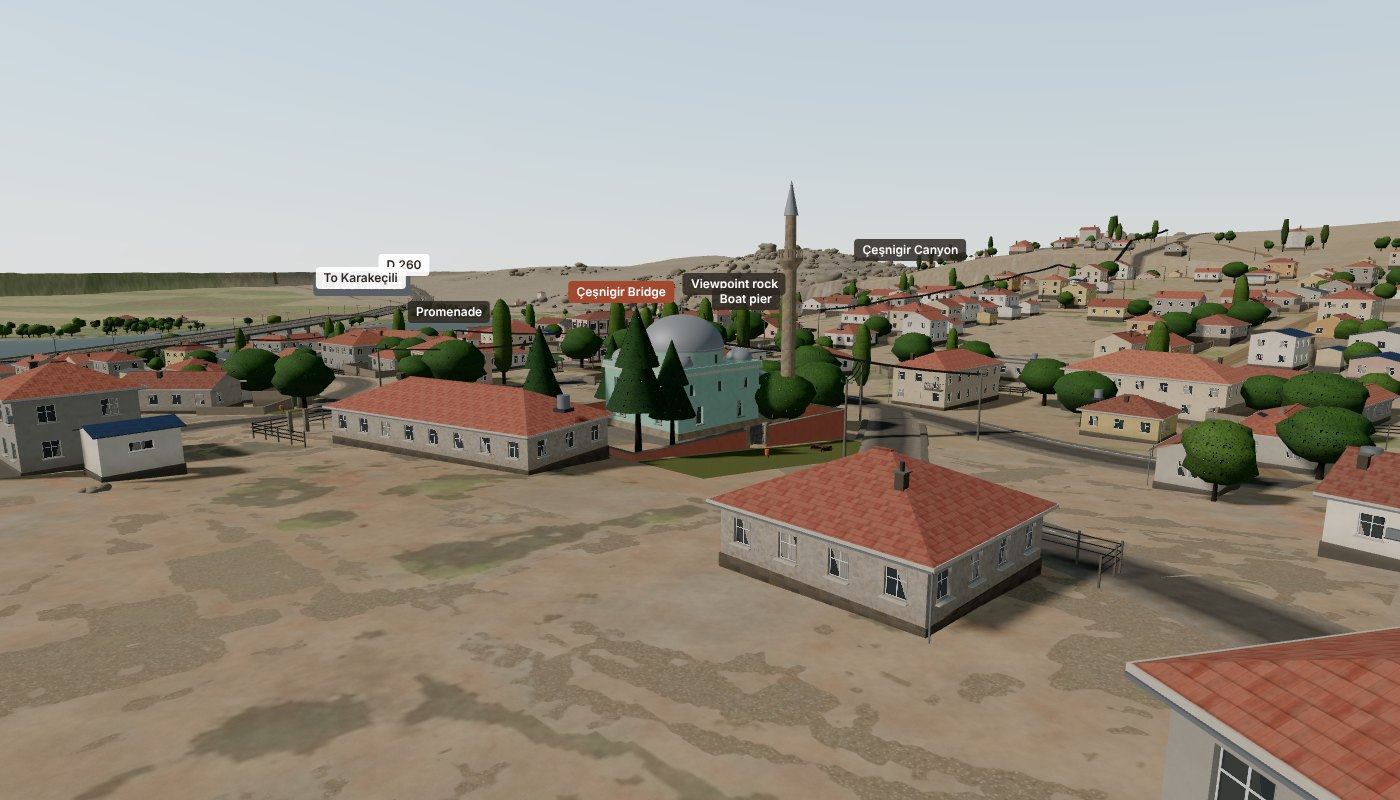
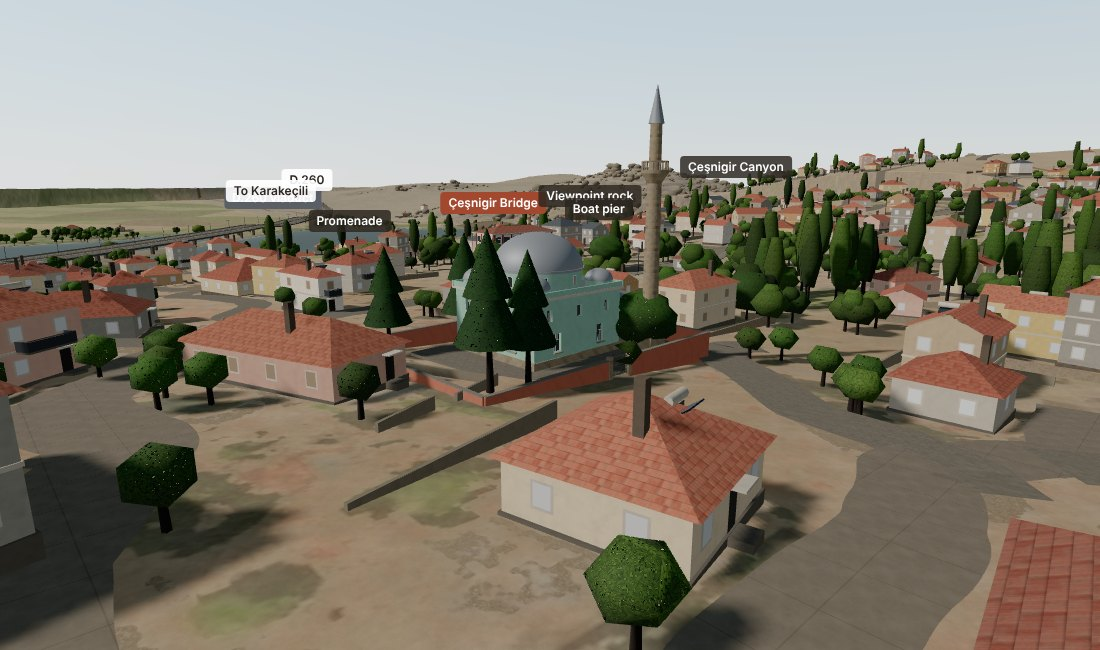
v0.8: keep only the square (municipality, statue) and the mosque; full re-layout behind #village
Roads, houses, trees and the bridge are back to v0.7. The connected street network, generated
houses, kerbs, poles and bridge voussoirs stay in the code as opt-in URL flags (#village,
#bridge-detail). Docs updated.

Claude-Session: https://claude.ai/code/session_01Rnj2kTL4AahNJydEajqBn9

diff --git a/src/village.js b/src/village.js
@@ -4,7 +4,7 @@
 // Layout comes from village_layout.js; materials from village_materials.js; props from props.js.
 import * as THREE from 'three';
 import { GeoBatch, box, boxY, cyl, facadeWithHoles, roofGeometry, gableEnds, ribbon, patch } from './geo.js';
-import { inRegion, rectCorners, distToPolyline } from './village_layout.js';
+import { inRegion, inCentreZone, rectCorners, distToPolyline } from './village_layout.js';
 import { buildProps } from './props.js';
 
 const WALLS = ['Duvar_Beyaz', 'Duvar_Beyaz', 'Duvar_Beyaz', 'Duvar_Krem', 'Duvar_Krem', 'Duvar_Okr', 'Duvar_Pembe', 'Duvar_Sari', 'Duvar_Gri'];
@@ -14,15 +14,16 @@ const FLOOR = 2.9, PLINTH = 0.45;
 
 // ---------------------------------------------------------------------------------------------------
 /** Remove the old draft inside the rebuilt region: houses, village roads, the mosque, and the trees. */
-export function pruneOldVillage(model) {
+export function pruneOldVillage(model, full = false) {
+  const inZone = full ? inRegion : inCentreZone;
   const v = new THREE.Vector3(), removed = { houses: 0, roads: 0, trees: 0 };
   const dropChildren = (groupName, test) => {
     const g = model.getObjectByName(groupName); if (!g) return 0; let n = 0;
     for (const c of g.children.slice()) { c.getWorldPosition(v); if (test(c, v)) { c.removeFromParent(); n++; } }
     return n;
   };
-  removed.houses = dropChildren('Konutlar', (c, p) => inRegion(p.x, p.z));
-  removed.roads = dropChildren('Yollar', (c, p) => inRegion(p.x, p.z) && !/^D260/.test(c.name));
+  removed.houses = dropChildren('Konutlar', (c, p) => inZone(p.x, p.z));
+  if (full) removed.roads = dropChildren('Yollar', (c, p) => inRegion(p.x, p.z) && !/^D260/.test(c.name));
   dropChildren('Kiyi_ve_Kamu', (c) => /^Cami/.test(c.name));
   // trees are two merged meshes: drop the triangles whose centroid lies in the region
   for (const name of ['Agaclar_Yaprak', 'Agaclar_Govde']) {
@@ -33,7 +34,7 @@ export function pruneOldVillage(model) {
     for (let t = 0; t < tri; t++) {
       const i0 = idx ? idx[t * 3] : t * 3, i1 = idx ? idx[t * 3 + 1] : t * 3 + 1, i2 = idx ? idx[t * 3 + 2] : t * 3 + 2;
       a.fromBufferAttribute(pos, i0).applyMatrix4(m.matrixWorld); b.fromBufferAttribute(pos, i1).applyMatrix4(m.matrixWorld); c.fromBufferAttribute(pos, i2).applyMatrix4(m.matrixWorld);
-      if (!inRegion((a.x + b.x + c.x) / 3, (a.z + b.z + c.z) / 3)) keep.push(i0, i1, i2); else removed.trees++;
+      if (!inZone((a.x + b.x + c.x) / 3, (a.z + b.z + c.z) / 3)) keep.push(i0, i1, i2); else removed.trees++;
     }
     g.setIndex(keep); g.computeBoundingSphere(); g.computeBoundingBox();
   }
@@ -50,7 +51,7 @@ export function buildVillage(ctx, layout, M) {
   const bat = new GeoBatch();
   const wires = [];                       // line segments for fence wires and overhead cables
   const treeSpots = [], props = [];       // handed to props.js
-  const roads = layout.roads;
+  const roads = layout.roads, centreOnly = !!layout.centreOnly;
   const yAt = (x, z) => terrH(x, z);
   const roadDist = (x, z) => { let best = Infinity, bw = 0; for (const r of roads) { const h = distToPolyline(x, z, r.line); if (h.d < best) { best = h.d; bw = r.w; } } return { d: best, w: bw }; };
   const onRoad = (x, z, margin = 0) => { const h = roadDist(x, z); return h.d < h.w / 2 + margin; };
@@ -59,6 +60,7 @@ export function buildVillage(ctx, layout, M) {
   // ================================================================= roads
   const lift = (r) => LIFT[r.kind] + roads.indexOf(r) * 0.003;
   for (const r of roads) {
+    if (centreOnly) break;
     const hw = r.w / 2, L = lift(r);
     const prof = [{ u: -hw - 1.0, dy: L * 0.25 }, { u: -hw, dy: L }, { u: -hw * 0.5, dy: L }, { u: 0, dy: L + 0.04 }, { u: hw * 0.5, dy: L }, { u: hw, dy: L }, { u: hw + 1.0, dy: L * 0.25 }];
     bat.add('road_' + r.kind, ribbon(r.line, prof, yAt, 1 / hw));
@@ -85,7 +87,7 @@ export function buildVillage(ctx, layout, M) {
   }
   // utility poles along the main streets, with three sagging cables between them
   for (const id of ['A_core', 'B_core', 'C_core', 'E_core', 'A_N', 'A_S', 'C_W', 'E_S']) {
-    const r = roads.find(q => q.id === id); if (!r) continue;
+    const r = roads.find(q => q.id === id); if (!r || centreOnly) continue;
     const side = id === 'B_core' || id === 'E_core' ? 1 : -1, off = r.w / 2 + (r.kerb ? 2.2 : 1.4);
     let s = 12 + rnd() * 10, prev = null, acc = 0, i = 0;
     const total = r.line.reduce((a, p, k) => k ? a + Math.hypot(p[0] - r.line[k - 1][0], p[1] - r.line[k - 1][1]) : 0, 0);
@@ -101,8 +103,10 @@ export function buildVillage(ctx, layout, M) {
   // ================================================================= the square and the lawns
   const S = layout.sites;
   bat.add('square', patch(S.square.x, S.square.z, S.square.w, S.square.d, 0, yAt, LIFT.square, 2.5));
-  const green = S.green1; bat.add('lawn', patch(green.x, green.z, 7, 6, 0, yAt, 0.07, 1.5));
-  props.push({ kind: 'bench', x: green.x - 1.5, z: green.z + 1.0, yaw: 0.2 }, { kind: 'bin', x: green.x + 2.2, z: green.z + 1.5 }, { kind: 'tree', species: 'mulberry', x: green.x + 1.0, z: green.z - 1.5, size: 1.1 });
+  if (!centreOnly) {
+    const green = S.green1; bat.add('lawn', patch(green.x, green.z, 7, 6, 0, yAt, 0.07, 1.5));
+    props.push({ kind: 'bench', x: green.x - 1.5, z: green.z + 1.0, yaw: 0.2 }, { kind: 'bin', x: green.x + 2.2, z: green.z + 1.5 }, { kind: 'tree', species: 'mulberry', x: green.x + 1.0, z: green.z - 1.5, size: 1.1 });
+  }
   props.push({ kind: 'bench', x: S.square.x + 7, z: S.square.z + 13, yaw: 0 }, { kind: 'bench', x: S.square.x + 7, z: S.square.z - 12, yaw: 0 }, { kind: 'bin', x: S.square.x + 9, z: S.square.z + 15 });
   for (const [dx, dz] of [[-2, 14], [8, -16], [9, 10]]) props.push({ kind: 'tree', species: 'mulberry', x: S.square.x + dx, z: S.square.z + dz, size: 1.3 });
 
@@ -442,6 +446,7 @@ export function buildVillage(ctx, layout, M) {
     // trees inside the yard (pines behind the mosque, as in docs/reference/06) and the lawn / picnic table outside the east wall
     for (const [tx, tz] of [[-W2 + 3, cz0 + D2 - 4], [W2 - 3, cz0 + D2 - 3], [-W2 + 3, cz0 + 2], [W2 - 3, cz0 + 9]]) treeSpots.push({ x: b.x + tx, z: b.z + tz, species: 'pine', size: 1.0 + rnd() * 0.3, force: true });
     for (const [tx, tz] of [[-W2 + 5, cz0 - D2 + 11], [W2 - 5, cz0 - D2 + 6]]) treeSpots.push({ x: b.x + tx, z: b.z + tz, species: 'mulberry', size: 1.1, force: true });
+    if (centreOnly) return;   // no new street outside the wall in centre-only mode: the v0.6 roads stay
     const rdE = roadDist(b.x + W2, b.z + cz0), lawnW = Math.max(2, Math.min(9, rdE.d - rdE.w / 2 - 2.2)), lawnX = b.x + W2 + 0.4 + lawnW / 2, lawnZ = b.z + cz0;
     bat.add('lawn', patch(lawnX, lawnZ, lawnW, cd, 0, yAt, 0.07, 1.5));
     props.push({ kind: 'picnic', x: lawnX - 0.3, z: lawnZ - 6, yaw: 0 }, { kind: 'bin', x: lawnX + 0.8, z: lawnZ + 4 });
@@ -451,7 +456,7 @@ export function buildVillage(ctx, layout, M) {
   // ================================================================= props, wires, trees
   // street poplars along the main road and the mosque street
   for (const id of ['B_core', 'C_core', 'A_core']) {
-    const r = roads.find(q => q.id === id); if (!r) continue;
+    const r = roads.find(q => q.id === id); if (!r || centreOnly) continue;
     for (const side of [-1, 1]) {
       const total = r.line.length;
       for (let i = 4; i < total - 4; i += 5 + Math.floor(rnd() * 5)) {
@@ -466,8 +471,10 @@ export function buildVillage(ctx, layout, M) {
   const okSpot = (t) => t.force || (!onRoad(t.x, t.z, 1.2) && !inAnyBuilding(t.x, t.z, 1.0) && terrH(t.x, t.z) > 2);
   const trees = treeSpots.filter(okSpot);
   // stone piles and a few fences out in the plots
-  for (let i = 0; i < 14; i++) { const b = blds[Math.floor(rnd() * blds.length)]; if (!b.barn) continue; props.push({ kind: 'stones', x: b.x + (rnd() - 0.5) * 12, z: b.z + (rnd() - 0.5) * 12 }); }
-  props.push({ kind: 'bench', x: S.market.x + 7.5, z: S.market.z + 2, yaw: Math.PI / 2 }, { kind: 'bin', x: S.market.x + 7.5, z: S.market.z - 1.5 });
+  if (!centreOnly) {
+    for (let i = 0; i < 14; i++) { const b = blds[Math.floor(rnd() * blds.length)]; if (!b.barn) continue; props.push({ kind: 'stones', x: b.x + (rnd() - 0.5) * 12, z: b.z + (rnd() - 0.5) * 12 }); }
+    props.push({ kind: 'bench', x: S.market.x + 7.5, z: S.market.z + 2, yaw: Math.PI / 2 }, { kind: 'bin', x: S.market.x + 7.5, z: S.market.z - 1.5 });
+  }
 
   const propsOut = buildProps(ctx, M, { props: props.filter(p => p.kind === 'tree' || p.force || !onRoad(p.x, p.z, 0.4)), trees, wires }, bat);
   bat.build(M, group);

diff --git a/index.html b/index.html
@@ -160,7 +160,7 @@ canvas { display: block; touch-action: none; }
     <label class="chip" style="width:100%;justify-content:space-between"><span>Time <b id="sunVal">15:00</b></span>
       <input type="range" id="sun" min="6" max="20" step="0.25" value="15" style="flex:1;margin-left:10px" aria-label="Time of day"></label>
   </div>
-  <p class="note"><strong>v0.8 — village rebuilt.</strong> The centre is re-drawn from the satellite image and street photographs: a connected street network (Köprüköy Köyü Yolu, the Güvendioğlu Market junction, the mosque street) with blue-white kerbs and pavements, the old municipality building and the Atatürk statue on its earth square, the turquoise mosque with its single minaret and red courtyard wall, houses with recessed windows, sills, eaves, gutters, balconies and roof clutter, poplars and mulberry trees, utility poles and fences. Terrain (SRTM 30 m), the reservoir and the Çeşnigir Bridge are unchanged; the bridge now has carved voussoirs, cutwater caps and parapet stones. Storey counts and façade details are still estimates.</p>
+  <p class="note"><strong>v0.8 — square and mosque.</strong> Built from street photographs: the old municipality building (three storeys, whitewash with red-brown pilasters) with the Atatürk statue on its earth square and the çardak, and the turquoise mosque with its lead domes, single minaret and red courtyard wall. Everything else (terrain, roads, houses, bridge, reservoir) is the v0.7 model. Storey counts and façade details are still estimates.</p>
 </aside>
 
 <div class="hud" id="hud"><div class="speedo"><b id="spd">0</b><span id="gearTxt">km/h · N</span></div></div>
@@ -186,12 +186,13 @@ import { Sky } from 'three/addons/objects/Sky.js';
 import { mergeGeometries } from 'three/addons/utils/BufferGeometryUtils.js';
 import { setupRealism } from './src/realism.js';
 import { tagBuildings } from './src/buildings.js';
-import { buildVillageLayout, roadSamples, buildingBoxes, inRegion } from './src/village_layout.js';
+import { buildVillageLayout, buildCentreLayout, roadSamples, buildingBoxes, inRegion, inCentreZone } from './src/village_layout.js';
 import { pruneOldVillage, LIFT } from './src/village.js';
 
 const POIS = [{"id": "kopru", "label": "Çeşnigir Bridge", "kind": "tarihi", "pos": [-377, 16, -277]}, {"id": "viyaduk", "label": "D.260 viaduct", "kind": "yol", "pos": [-539, 22, -105]}, {"id": "d260a", "label": "D.260", "kind": "yon", "pos": [-951, 35, -319]}, {"id": "d260b", "label": "D.260", "kind": "yon", "pos": [154, 36, 568]}, {"id": "karakecili", "label": "To Karakeçili", "kind": "yon", "pos": [-825, 21, -209]}, {"id": "gezi", "label": "Promenade", "kind": "yer", "pos": [-267, 14, -57]}, {"id": "seyir", "label": "Viewpoint rock", "kind": "yer", "pos": [-292, 24, -338]}, {"id": "iskele", "label": "Boat pier", "kind": "yer", "pos": [-305, 9, -367]}, {"id": "kanyon", "label": "Çeşnigir Canyon", "kind": "yer", "pos": [-277, 55, -602]}, {"id": "nehir", "label": "Kızılırmak · Kapulukaya Reservoir", "kind": "su", "pos": [-318, 8, 331]}];
 const isTouch = matchMedia('(pointer: coarse)').matches;
 const LITE = location.hash === '#lite';
+const FULL_VILLAGE = /\bvillage\b/.test(location.hash);
 // render quality tier: 0 = lite, 1 = mobile, 2 = desktop
 const QUALITY = LITE ? 0 : isTouch ? 1 : 2;
 
@@ -327,15 +328,19 @@ function makeWaterNormals() {
 async function loadAll() {
   const [{ default: b64 }, { default: data }] = await Promise.all([import('./model4.js'), import('./data4.js')]);
   D = data; X0 = D.grid.x0; Z0 = D.grid.z0; TSZ = D.grid.size; terrainSeg = D.grid.seg; terrainCs = TSZ / terrainSeg; Hh = Float32Array.from(D.grid.h);
-  // v0.8: the village centre is re-laid out (see src/village_layout.js); swap its roads / footprints in the collision data
-  const oldR = D.roads, keepR = [];
-  for (let k = 0; k < oldR.length; k += 4) if (!inRegion(oldR[k], oldR[k + 1]) || oldR[k + 3] > 5) keepR.push(oldR[k], oldR[k + 1], oldR[k + 2], oldR[k + 3]);
-  VILLAGE = buildVillageLayout(terrH, keepR);
-  D.roads = keepR.concat(roadSamples(VILLAGE.roads, terrH, kind => LIFT[kind]));
+  // v0.8: the square (old municipality, statue) and the mosque are rebuilt; with #village the whole centre is
+  // re-laid out from the satellite image (see src/village_layout.js). Collision data follows.
+  if (FULL_VILLAGE) {
+    const oldR = D.roads, keepR = [];
+    for (let k = 0; k < oldR.length; k += 4) if (!inRegion(oldR[k], oldR[k + 1]) || oldR[k + 3] > 5) keepR.push(oldR[k], oldR[k + 1], oldR[k + 2], oldR[k + 3]);
+    VILLAGE = buildVillageLayout(terrH, keepR);
+    D.roads = keepR.concat(roadSamples(VILLAGE.roads, terrH, kind => LIFT[kind]));
+    D.spawn = { car: [20, 56], walk: [46, 47] };
+  } else VILLAGE = buildCentreLayout(terrH);
+  const inZone = FULL_VILLAGE ? inRegion : inCentreZone;
   const oldB = D.buildings, keepB = [];
-  for (let k = 0; k < oldB.length; k += 5) if (!inRegion(oldB[k], oldB[k + 1])) keepB.push(...oldB.slice(k, k + 5));
+  for (let k = 0; k < oldB.length; k += 5) if (!inZone(oldB[k], oldB[k + 1])) keepB.push(...oldB.slice(k, k + 5));
   D.buildings = keepB.concat(buildingBoxes(VILLAGE.buildings));
-  D.spawn = { car: [20, 56], walk: [46, 47] };
   buildHashes();
   const bin = atob(b64), buf = new Uint8Array(bin.length); for (let i = 0; i < bin.length; i++) buf[i] = bin.charCodeAt(i);
   const ld = new GLTFLoader(); ld.setMeshoptDecoder(MeshoptDecoder);
@@ -355,7 +360,7 @@ loadAll().then(gltf => {
     }
   });
   // v0.8: drop the old draft of the village centre (houses, streets, mosque, trees) before merging; it is rebuilt in setupRealism
-  pruneOldVillage(m);
+  pruneOldVillage(m, FULL_VILLAGE);
   // tag every building with an id / ground line / roof line / orientation before merging (used by the façade shaders)
   let bid = 1; for (const n of ['Konutlar', 'Kiyi_ve_Kamu', 'Cesnigir_Koprusu', 'Yollar']) { const g = m.getObjectByName(n); if (g) bid = tagBuildings(g, bid); }
   const merged = {};
@@ -656,7 +661,7 @@ const V = {
   gezi:   { p: [-185, 62, -285], t: [-300, 4, -320] },
   kanyon: { p: [-262, 42, -350], t: [-300, 5, -640] },
   detay:  { p: [150, 62, 15], t: [38, 27, 48] },
-  cami:   { p: [185, 48, 160], t: [118, 32, 96] },
+  cami:   { p: [158, 48, 152], t: [107, 32, 103] },
   tepe:   { p: [-60, 1450, 1], t: [-60, 0, 0] },
 };
 let anim = null;

diff --git a/src/village_layout.js b/src/village_layout.js
@@ -261,6 +261,28 @@ export function buildVillageLayout(terrH, existingRoads = []) {
   return { roads, buildings, sites: SITES, rnd };
 }
 
+// ---------------------------------------------------------------- centre-only mode (default)
+// Only the square (old municipality, statue, çardak) and the mosque are rebuilt; the v0.6 roads, houses
+// and trees stay. Old houses / trees inside these zones are removed.
+export const CENTRE_MOSQUE = { x: 107.2, z: 102.6 };   // inside the old courtyard footprint (89.7..128.7, 83.2..125.1)
+export const CENTRE_ZONES = [
+  { x0: 20, x1: 56, z0: 28, z1: 74 },                   // municipality, square, çardak
+  { x0: 93, x1: 121, z0: 88, z1: 124 },                 // mosque courtyard
+];
+export const inCentreZone = (x, z) => CENTRE_ZONES.some(r => x > r.x0 && x < r.x1 && z > r.z0 && z < r.z1);
+export function buildCentreLayout(terrH) {
+  const muniB = { ...TRACED.find(b => b.kind === 'municipality') };
+  const buildings = [muniB,
+    { x: CENTRE_MOSQUE.x, z: CENTRE_MOSQUE.z, yaw: 0, w: 13, d: 19, kind: 'mosque' },
+    { x: CENTRE_MOSQUE.x + 8.7, z: CENTRE_MOSQUE.z - 6.7, yaw: 0, w: 2.6, d: 2.6, kind: 'minaret' }];
+  for (const b of buildings) {
+    const hs = rectCorners(b).map(([x, z]) => terrH(x, z)); hs.push(terrH(b.x, b.z));
+    b.yTop = Math.max(...hs) + 0.05; b.yLow = Math.min(...hs) - 0.4;
+  }
+  const sites = { ...SITES, municipality: muniB, mosque: { ...CENTRE_MOSQUE, yaw: 0 } };
+  return { roads: [], buildings, sites, rnd: mulberry32(20261108), centreOnly: true };
+}
+
 /** Road samples in the data4 format ([x, z, y, halfWidth, ...]) for collision, the car and the minimap. */
 export function roadSamples(roads, terrH, lift) {
   const out = [];

diff --git a/src/realism.js b/src/realism.js
@@ -94,7 +94,7 @@ export async function setupRealism(ctx) {
     log('village');
   }
   // ---- bridge detail: voussoirs, cutwater caps, parapet stones ------------------------------
-  if (!off.has('no-bridge')) { const br = detailBridge(model, lib, pick); if (br) { ctx.scene.add(br); ctx.layers.bina.push(br); } log('bridge'); }
+  if (off.has('bridge-detail')) { const br = detailBridge(model, lib, pick); if (br) { ctx.scene.add(br); ctx.layers.bina.push(br); } log('bridge'); }   // opt-in: #bridge-detail
 
   return { lib, swapped, update(now) {
     if (waterMat && waterMat.userData.shader) waterMat.userData.shader.uniforms.uTime.value = now * 0.001;

diff --git a/docs/REALISM.md b/docs/REALISM.md
@@ -1,64 +1,49 @@
 # Köprüköy 3D — realism notes
 
-Two passes so far: **v0.7 "materials"** (surfaces only, nothing moved) and **v0.8 "village rebuilt"**
-(the village centre re-drawn from the satellite image and the Street View photographs in
-`docs/reference/`). Everything is applied at load time in the browser; `model4.js` / `data4.js` /
+Two passes so far: **v0.7 "materials"** (surfaces only, nothing moved) and **v0.8 "square and mosque"**
+(the old municipality square and the mosque rebuilt from the Street View photographs in `docs/reference/`). Everything is applied at load time in the browser; `model4.js` / `data4.js` /
 `model/koprukoy.glb` are still the v0.6 files. Terrain (SRTM 30 m), the reservoir at 724 m, the
 Çeşnigir Bridge body, D.260 and the roads outside the village are unchanged.
 
-## v0.8 — village rebuilt (Nov 2026)
+## v0.8 — square and mosque (Nov 2026)
 
-The measure of realism for this pass is the set of photographs in `docs/reference/` (01 satellite view of
-the centre, 02/05 the old municipality and the Atatürk statue, 03/04 typical houses, kerbs and a green,
-06 the mosque). Köprüköy itself: a former *belde* (town council until 2013) east of the Kapulukaya
-reservoir, ~630 inhabitants, one- and two-storey rendered houses with hipped clay-tile roofs.
+Scope, as decided by the owner: only the **old municipality square** and the **mosque** are rebuilt from the
+photographs in `docs/reference/`. Roads, houses, trees and the bridge stay as in v0.7. The full
+re-layout of the centre that was also built (connected street network traced from the satellite image,
+~260 houses, kerbs, poles, bridge voussoirs) is kept in the code behind opt-in URL flags —
+`#village` (whole centre) and `#bridge-detail` — but is not shown by default.
 
-| Area | Before (v0.7) | Now |
-|---|---|---|
-| Road network | 62 village streets that did not connect to each other (random spaghetti) | `src/village_layout.js`: the centre is traced from the satellite image — "Köprüköy Köyü Yolu" as the east–west axis through the Güvendioğlu Market junction, the north–south road, the mosque street, the south-west concrete lane. Outside the photographed block the streets are continued as a connected rural network that joins the surviving v0.6 roads: the D.260 access in the south-west, the two roads leaving north, the three leaving south and the shore road. 26 streets, every one of them connected. |
-| Houses | 514 boxes scattered without relation to the roads | 31 central buildings detected automatically from their tile roofs in the satellite image (`tools/trace_roofs.py`: position, size and orientation), 3 flat roofs added by hand; ~230 further houses and barns generated along the streets in plots, facing the road, denser near the centre. All old houses inside the village were deleted. |
-| Building geometry | plain boxes, detail only in the shader | `src/village.js`: walls built as façades with real window and door openings (recessed 16 cm with reveals), sills, plinths that follow the ground, hipped / gabled / sheet-metal / flat roofs with eaves, fascia boards, soffits, ridge, gutters and a downpipe, chimneys, balconies with railings, external stairs on some two-storey houses, AC units, roof water tanks, satellite dishes, solar water heaters, rebar stubs on flat roofs. Garden walls (rubble or block, with gate posts and a painted gate) or wire fences on the street side. |
-| Old municipality | not modelled | "T.C. Köprü Belediyesi" opposite the market: 3 storeys, dirty whitewash with red-brown pilasters between wide window bays, horizontal bands, entrance canopy and steps, sign board, low-pitch tile roof with wide eaves, flag pole. In front of it a stabilised-earth square and the Atatürk statue (bronze figure on a granite pedestal), benches, mulberry trees and the green-roofed çardak. |
-| Mosque | generic whitewash box with two minarets | Rebuilt after `06`: pale turquoise lime wash, two rows of recessed windows, drum with windows and a lead main dome, four lead corner domes, a three-domed son cemaat yeri on limestone columns, one slender limestone minaret with a single şerefe and a lead külah; red-plastered courtyard wall with concrete coping and iron gates, ablution fountain, pines inside the yard; lawn, pavement and a picnic table along the street outside. |
-| Road surfaces | ribbons with world-space texture only | New road meshes with per-road UVs: wheel tracks (slightly wavy), dust creeping in from the edges, repair patches, soft soil shoulders; concrete lane with slab joints; dirt tracks with darker ruts and a grassy crown. Kerbs with alternating blue / white painted blocks (worn) and 1.5 m paved pavements on the asphalt streets of the centre, interrupted at junctions. |
-| Çeşnigir Bridge | smooth faces with a stone texture | `src/bridge.js`: carved voussoir rings on both faces of all 19 arch openings with a raised keystone, a projecting string course under the parapet, hand-laid coping stones along the parapet, pyramidal caps on the six cutwaters. Dimensions unchanged. |
-| Vegetation & props | coloured blobs everywhere, no street furniture | Old trees inside the village removed; poplars along the main streets, mulberries on the square and in gardens, small fruit trees in plots, pines at the mosque (simple models, porous canopy shader). Concrete utility poles with three sagging cables, wire fences, benches, orange litter bins, picnic table, stone piles near barns. |
-| Labels | "Village mosque", "Small mosque (mescit)", "Village centre" | Removed (the mescit was a guess; the centre and the mosque are now recognisable). In walk / car modes labels are hidden beyond 320 m. Viewpoints "Village centre" and "Mosque" added. |
+| Area | Now |
+|---|---|
+| Old municipality | "T.C. Köprü Belediyesi" opposite the market (footprint detected from its roof in the satellite image): 3 storeys, dirty whitewash with red-brown pilasters between wide window bays, horizontal bands, entrance canopy and steps, sign board, low-pitch tile roof with wide eaves, flag pole. Walls are façades with real window openings (reveals, sills). |
+| Square | Stabilised-earth square east of the building; the Atatürk statue (bronze figure on a granite pedestal), two benches, a litter bin, mulberry trees and the green-roofed çardak. The two old houses on the site were removed. |
+| Mosque | Rebuilt after `06` inside the old courtyard footprint: pale turquoise lime wash, two rows of recessed windows, drum with windows and a lead main dome, four lead corner domes, a three-domed son cemaat yeri on limestone columns, one slender limestone minaret with a single şerefe and a lead külah; red-plastered courtyard wall with concrete coping and iron gates, ablution fountain, pines and mulberries in the yard. The old two-minaret mosque is removed. |
+| Labels | "Village mosque", "Small mosque (mescit)" and "Village centre" removed; in walk / car modes labels are hidden beyond 320 m. Viewpoints "Village centre" and "Mosque" added. |
 
-Collision, the Toros, the minimap and the ground-cover scatter all use the new roads and footprints
-(`data4` arrays are rewritten in memory at load). Car spawn is on the main road west of the junction;
-walk spawn is on the square.
+Collision and the minimap follow (the two footprints replace the old ones in `data4` in memory).
 
-Debug switches in the URL hash: `#no-village`, `#no-bridge` (plus the v0.7 ones: `#no-terrain`,
-`#no-bld`, `#no-road`, `#no-rock`, `#no-water`, `#no-trees`, `#no-cover`). `#lite` = low quality.
-
-### How the centre was georeferenced
-
-The satellite screenshot has no scale bar; 0.25 m/px was chosen from the road width (~6 m) and typical
-house sizes (10–14 m), and the market junction was pinned at model (55, 50) so that the mosque lands
-where the v0.6 draft had it. Absolute position relative to the bridge is therefore approximate
-(±30 m); the layout *within* the centre follows the photo. `docs/screenshots/v0.8_plan_vs_satellite.png`
-overlays the generated plan on the satellite image.
+Debug / opt-in switches in the URL hash: `#village` (full centre re-layout), `#bridge-detail`,
+`#no-village`, plus the v0.7 ones (`#no-terrain`, `#no-bld`, `#no-road`, `#no-rock`, `#no-water`,
+`#no-trees`, `#no-cover`). `#lite` = low quality.
 
 ### Files
 
-- `src/village_layout.js` — roads (control points in image px / model m), traced buildings, generation of the periphery, data4 helpers. No three.js.
-- `src/village.js` — geometry: roads, kerbs, pavements, square, houses, municipality, statue, çardak, mosque.
-- `src/props.js` — trees, poles and cables, benches, bins, picnic table, stone piles. `src/geo.js` — geometry toolkit (façades with holes, roofs, ribbons, patches, per-material batching with the building attributes).
-- `src/village_materials.js` — road shaders with UV ruts, kerb paint, turquoise / red / whitewash plaster, lead, limestone, lawn.
-- `src/bridge.js` — voussoirs, string course, coping, cutwater caps.
-- `tools/trace_roofs.py` — roof detection in the satellite image; `tools/plan_check.mjs` — dumps the layout for a top-down check; `tools/screenshot.mjs` — headless render harness.
-- `docs/screenshots/v0.8_*` — overview, square with the municipality, mosque, street, bridge, top-down, plan overlay.
+- `src/village_layout.js` — footprints and sites (centre-only layout by default; the full satellite-traced layout and street generator are here too). No three.js.
+- `src/village.js` — geometry: municipality, statue, çardak, square, mosque (and, with `#village`, roads, kerbs, houses).
+- `src/props.js` — trees, benches, bins, poles. `src/geo.js` — geometry toolkit (façades with holes, roofs, ribbons, patches, per-material batching).
+- `src/village_materials.js` — turquoise / red / whitewash plaster, lead, limestone, kerb paint, road shaders.
+- `src/bridge.js` — voussoirs, string course, coping, cutwater caps (opt-in).
+- `tools/trace_roofs.py` — roof detection in the satellite image; `tools/plan_check.mjs` — layout dump; `tools/screenshot.mjs` — headless render harness.
+- `docs/screenshots/v0.8_*` — square with the municipality, mosque, and (from the full re-layout) overview, street, top-down, plan overlay.
 
-### Still open after v0.8
+### Still open
 
-1. The periphery (outside the ~190 × 150 m photographed block) is plausible, not surveyed — a wider
-   satellite capture would let `tools/trace_roofs.py` replace the generated houses there too.
-2. Ground-level clutter: no parked cars, tractors, hay bales, satellite-image-based garden layouts.
-3. Terrain resolution is still SRTM 30 m, so the square and the mosque yard sit on a gently tilted plane
-   (the plinths and walls follow it).
-4. Trees are simple volumes (no bark detail, no branches); willows along the water were not added.
-5. Lighting / atmosphere intentionally untouched (owner's request).
+1. Roads still do not connect to each other and houses are not placed from imagery — the full re-layout
+   exists (`#village`) but needs wider satellite captures and more Street View frames in
+   `docs/reference/` before it reflects the real village outside the photographed block.
+2. Building geometry elsewhere is still boxes; road edges, bridge voussoirs and tree variety are available
+   only behind the flags above.
+3. Lighting / atmosphere intentionally untouched (owner's request).
 
 ## v0.7 — materials pass
 

diff --git a/README.md b/README.md
@@ -6,10 +6,10 @@ A 3D model of Köprüköy (Keskin, Kırıkkale, Türkiye) and the area around th
 
 - **Orbit, Walk, Fly and Toros** modes. Toros mode lets you drive a 1990s Renault 12 Toros station wagon. Touch controls work on phones.
 - **Terrain:** SRTM 30 m elevation data; the lake (Kapulukaya Reservoir) sits at 724 m.
-- **Roads and buildings:** the centre is traced from a satellite image (`src/village_layout.js`, `tools/trace_roofs.py`); the outer roads (D.260, the bridge road, the shore) come from the v0.6 survey.
+- **Roads, buildings and ground cover:** extracted from satellite imagery (v0.6 survey). Road centrelines and widths were measured from the road surface, and the top-down render was checked against the satellite image.
 - **Çeşnigir Bridge (13th century, Seljuk):** 110 m long, 6 m wide, 18.60 m central span, 12 arches (9 lower, 3 upper). The lower arches are partly under the reservoir water.
 
-- **v0.8 village rebuilt:** the village centre is re-drawn from the satellite image and Street View photographs in [`docs/reference/`](docs/reference/) — a connected street network with blue-white kerbs and pavements, houses with real window reveals, eaves and roof clutter, the old municipality with the Atatürk statue on its earth square, the turquoise mosque with its single minaret and red courtyard wall, trees, utility poles and fences; the bridge got carved voussoirs, coping stones and cutwater caps. See [`docs/REALISM.md`](docs/REALISM.md).
+- **v0.8 square and mosque:** the old municipality building with the Atatürk statue on its earth square, and the turquoise mosque with its single minaret and red courtyard wall, built from the Street View photographs in [`docs/reference/`](docs/reference/). A full re-layout of the centre from the satellite image is available behind `#village`. See [`docs/REALISM.md`](docs/REALISM.md).
 - **v0.7 materials pass:** physically based, world-space textured terrain, buildings, roads, bridge, rocks, water and instanced ground cover. Textures are generated by `tools/gen_textures.py`.
 
 Blender model: [`model/koprukoy.glb`](model/koprukoy.glb) (1 unit = 1 m, Y up, −Z north).
